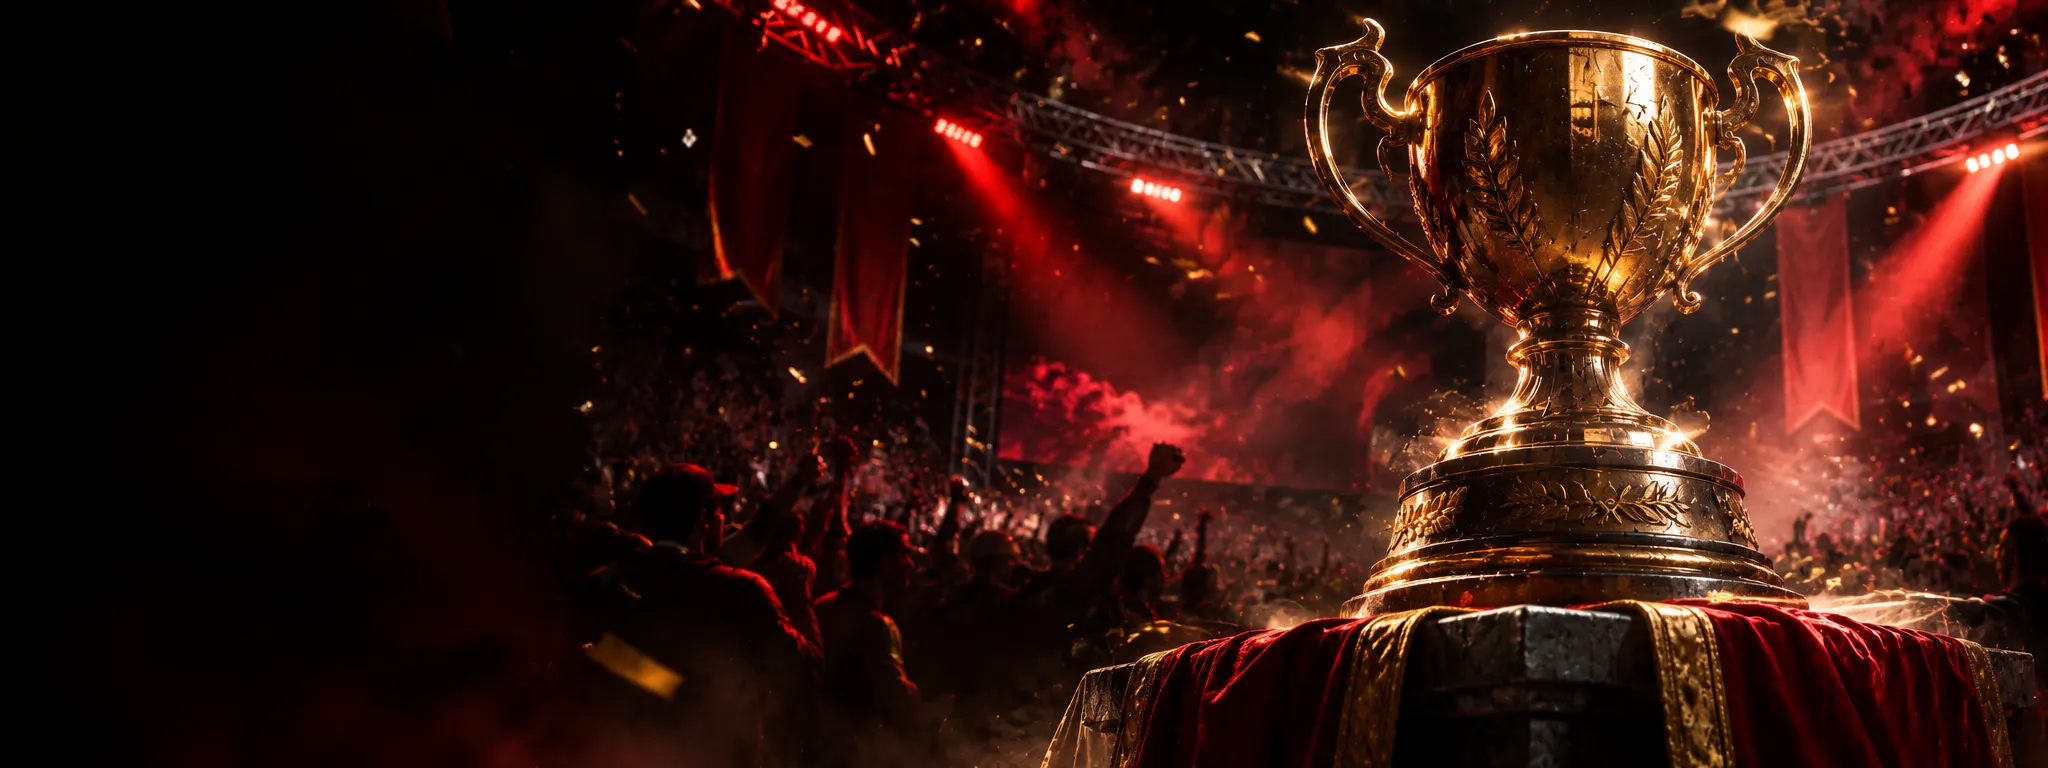
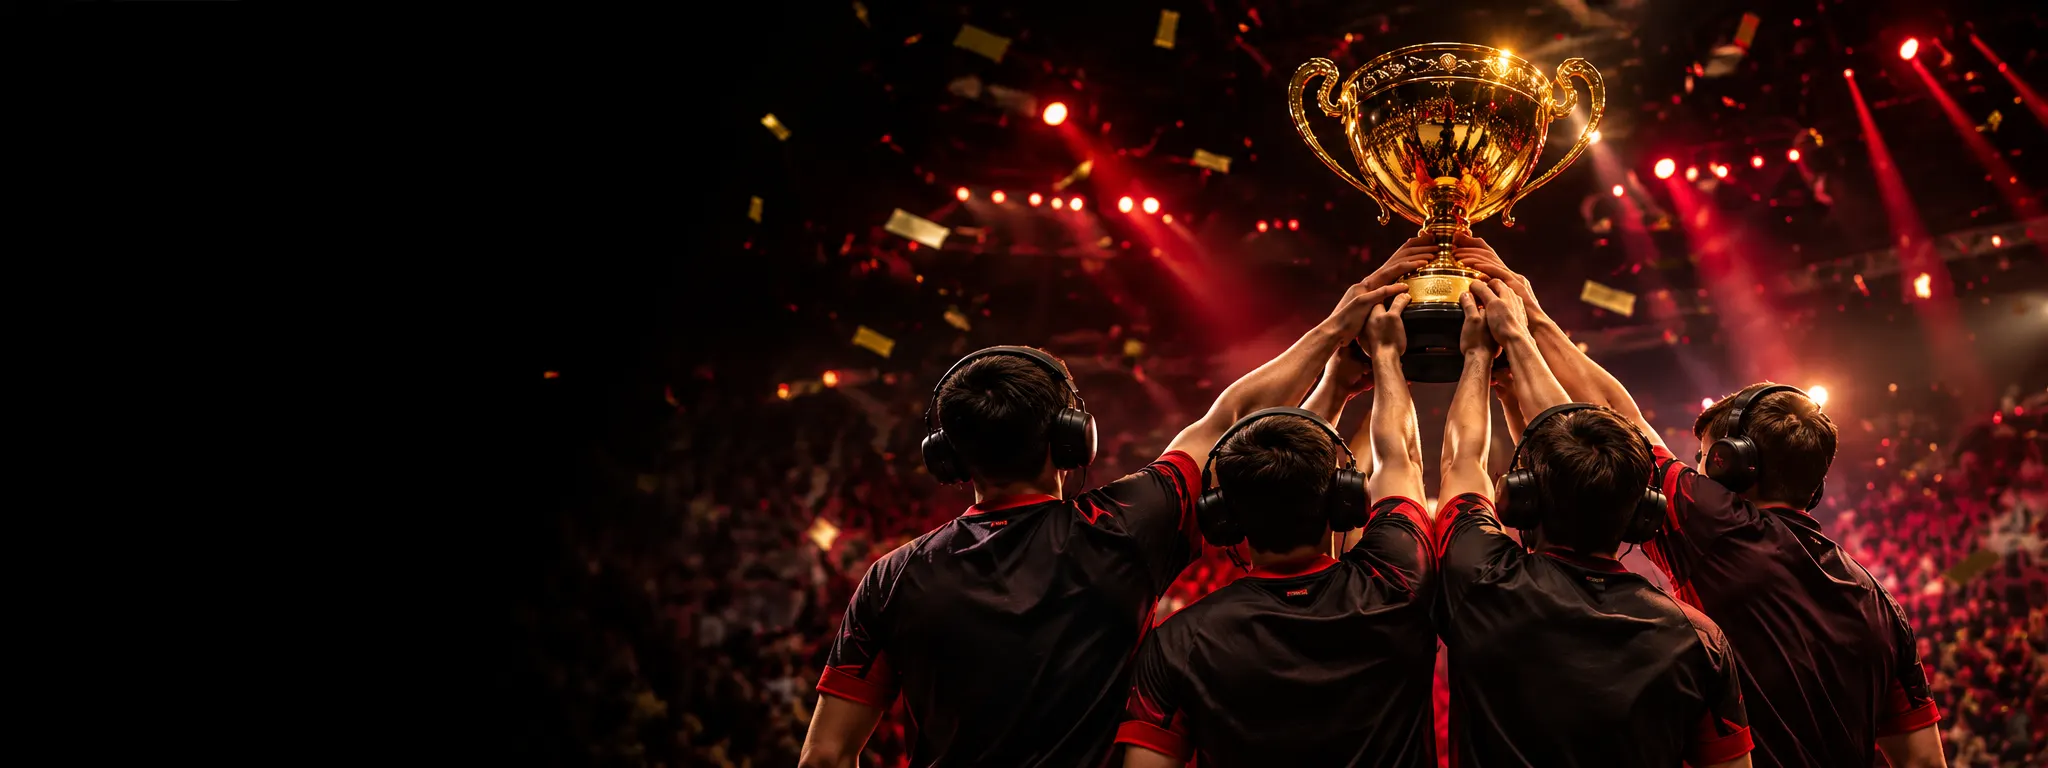
Carte Vainqueur du circuit S1 : nouvelle image photoréaliste (#331)

diff --git a/src/lib/releases.js b/src/lib/releases.js
@@ -6,9 +6,9 @@
 export const RELEASES = [
   {
     date: "2026-11-08",
-    title: "Nouvelles images MVP",
+    title: "Nouvelles images MVP et circuit",
     items: [
-      { tag: "Classé", text: "MVP du mois et MVP ×10 ont une nouvelle illustration, plus réaliste." },
+      { tag: "Classé", text: "MVP du mois, MVP ×10 et Vainqueur du circuit S1 ont une nouvelle illustration, plus réaliste." },
     ],
   },
   {
